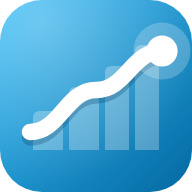
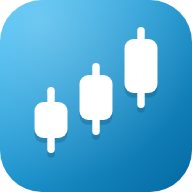
圖示改用「K 線」：三根上升的 K 棒
- favicon.svg 改成三根由低到高的白色 K 棒，加柔和陰影（背景、高光不變）
- 重新產生 icon-192／icon-512／apple-touch-icon（滿版）／maskable
  （K 棒縮到 82%，Android 裁成圓形也不會切到）
- 頁首標誌換成同一個 K 線圖案
- 版本號維持 ?v=3、快取 skyline-v3（上一版天際曲線沒有上線過）

Claude-Session: https://claude.ai/code/session_01YZprTHhtmFx9DG1JEZ8nVG

Changed region(s): [[0.0938, 0.0938, 1.0, 0.8438]]

diff --git a/index.html b/index.html
@@ -539,12 +539,17 @@
   <header class="topbar">
     <div class="brand">
       <div class="brand-mark">
-        <svg width="40" height="40" viewBox="0 0 64 64" fill="none" aria-hidden="true">
-          <path fill="#fff" fill-opacity=".28" d="M11 50V39a2 2 0 0 1 2-2h6a2 2 0 0 1 2 2v11zM23 50V31a2 2 0 0 1 2-2h6a2 2 0 0 1 2 2v19zM35 50V24a2 2 0 0 1 2-2h4a2 2 0 0 1 2 2v26zM45 50V17a2 2 0 0 1 2-2h4a2 2 0 0 1 2 2v33z"/>
-          <path d="M10 44C20 44 22 30 32 30S44 17 54 17" transform="translate(0 1.8)" stroke="#0C4A6E" stroke-opacity=".3" stroke-width="5.5" stroke-linecap="round"/>
-          <path d="M10 44C20 44 22 30 32 30S44 17 54 17" stroke="#fff" stroke-width="5.5" stroke-linecap="round"/>
-          <circle cx="54" cy="17" r="9.5" fill="#fff" fill-opacity=".22"/>
-          <circle cx="54" cy="17" r="5.2" fill="#fff"/>
+        <svg width="40" height="40" viewBox="0 0 64 64" aria-hidden="true">
+          <g transform="translate(0 1.6)" fill="#0C4A6E" fill-opacity=".28">
+            <rect x="15.75" y="29" width="2.5" height="22" rx="1.25"/><rect x="11.5" y="34" width="11" height="12" rx="3"/>
+            <rect x="30.75" y="21" width="2.5" height="24" rx="1.25"/><rect x="26.5" y="25" width="11" height="15" rx="3"/>
+            <rect x="45.75" y="9" width="2.5" height="27" rx="1.25"/><rect x="41.5" y="13" width="11" height="18" rx="3"/>
+          </g>
+          <g fill="#fff">
+            <rect x="15.75" y="29" width="2.5" height="22" rx="1.25"/><rect x="11.5" y="34" width="11" height="12" rx="3"/>
+            <rect x="30.75" y="21" width="2.5" height="24" rx="1.25"/><rect x="26.5" y="25" width="11" height="15" rx="3"/>
+            <rect x="45.75" y="9" width="2.5" height="27" rx="1.25"/><rect x="41.5" y="13" width="11" height="18" rx="3"/>
+          </g>
         </svg>
       </div>
       <div>
